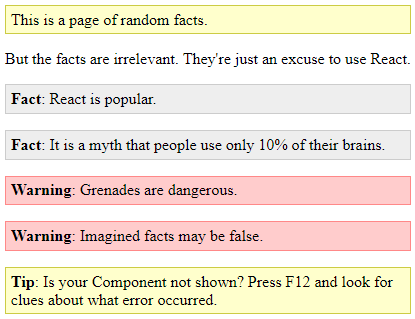
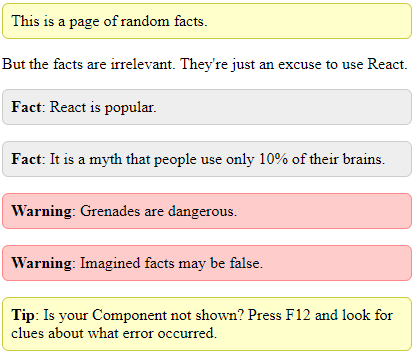
Edit tutorial

diff --git a/docs/styles.css b/docs/styles.css
@@ -78,3 +78,20 @@ header, .header {
      3px 3px 3px #000;
   /*-webkit-text-stroke: 1px black;*/
 }
+
+.note, .warning, .tip {
+    padding: 0.5em;
+    border-radius: 0.4em;
+}
+.note {
+    background-color: #ffc;
+    border: 1px solid #cc4;
+}
+.warning { 
+    background-color: #fcc;
+    border: 1px solid #f88;
+}
+.tip { 
+    background-color: #cfc;
+    border: 1px solid #6c6;
+}

diff --git a/docs/tutorial-2.md b/docs/tutorial-2.md
@@ -106,7 +106,9 @@ Alternately you can use Preact, which is [almost the same](https://preactjs.com/
 
     npm install preact
 
-**Note**: do not to install `preact` and `@types/react` in the same project, or `tsc` will go insane and give you about 150 errors (see [preact issue #639](https://github.com/developit/preact/issues/639)). If this happens, uninstall the React types with `npm uninstall @types/react @types/react-dom`
+<p class="tip">**Tip:** `npm i` is a shortcut for `npm install`.</p>
+
+<p class="note">**Note:** do not to install `preact` and `@types/react` in the same project, or `tsc` will go insane and give you about 150 errors (see [preact issue #639](https://github.com/developit/preact/issues/639)). If this happens, uninstall the React types with `npm uninstall @types/react @types/react-dom`</p>
 
 ### Step 6: Write some React code ###
 
@@ -135,7 +137,7 @@ ReactDOM.render(
 );
 ~~~
 
-**Note:** in order for the embedded JSX (HTML/XML) to work, the file extension must be `tsx`, not `ts`. If you have any trouble making your code work, try this code instead, it's the simplest possible React program:
+<p class="note">**Note:** in order for the embedded JSX (HTML/XML) to work, the file extension must be `tsx`, not `ts`. If you have any trouble making your code work, try this code instead, it's the simplest possible React program:</p>
 
 ~~~tsx
 import * as ReactDOM from 'react-dom';
@@ -157,6 +159,18 @@ Some notes about Preact:
 
 - There is a [preact-compat library](https://github.com/developit/preact-compat) which allows you to use preact with zero changes to your React code, but usage instructions exist only for users of Webpack/Browserify/Babel/Brunch.
 - There are rumors that in Preact you should write `/** @jsx h */` at the top of the file, which tells TypeScript to call `h()` instead of the default `React.createElement`. Here you **must not** do that or you'll get a error in your browser that `h` is not defined (`React.h`, however, is defined). In fact Preact defines `createElement` as an alias for `h`, and since our `import` statement assigns `'preact'` to `React`, `React.createElement` exists and works just fine.
+
+### Optional: running TypeScript scripts ###
+
+This tutorial is focused on making _web pages_ that run TypeScript code. If you would like to run a TypeScript file directly from the command prompt, the easiest way is to use `ts-node`:
+
+    npm install --global ts-node
+
+After installing `ts-node`, run `ts-node X.ts` where `X.ts` is the name of a script you want to run. On Linux systems you can put a "shebang" at the top of the script if you would like to be able to run `./X.ts` directly (without mentioning `ts-node`):
+
+    #!/usr/bin/env ts-node
+
+<p class="note">**Note:** if you don't need to run ts files from a terminal then you don't need to install `ts-node`.</p>
 
 Running your project, Approach A: The Easy Way
 ----------------------------------------------
@@ -209,6 +223,8 @@ It is challenging to set up a conventional build that does all of these things; 
 
 To learn about more features of Parcel, have a look at the [Parcel documentation](https://parceljs.org/getting_started.html). 
 
+One limitation of Parcel is that it doesn't perform type checking (your code is translated to JavaScript but type errors are not detected). For small projects, this is not a big problem because Visual Studio Code performs its own type checking. It gives you red squiggly underlines to indicate errors and all errors are listed in the "Problems" pane (press Ctrl+Shift+M to show it). But if you want, you can `npm install parcel-plugin-typescript` for [enhanced TypeScript support](https://www.npmjs.com/package/parcel-plugin-typescript#features) including type checking.
+
 Other approaches
 ----------------
 
@@ -237,24 +253,26 @@ It seems like everybody's JavaScript project uses a dozen tools plus the kitchen
 Create a text file called `tsconfig.json` (in your root folder) and put this code in it:
 
 ~~~js
-{   // TypeScript configuration file: provides options to the TypeScript 
-    // compiler (tsc) and makes VSCode recognize this folder as a TS project,
-    // enabling the VSCode build tasks "tsc: build" and "tsc: watch".
-    "compilerOptions": {
-        "target": "es5",            // Compatible with older browsers
-        "module": "umd",            // Compatible with both Node.js and browser
-        "moduleResolution": "node", // Tell tsc to look in node_modules for modules
-        "sourceMap": true,          // Creates *.js.map files
-        "jsx": "react",             // Causes inline XML (JSX code) to be expanded
-    },
-    "include": ["**/*.ts", "**/*.tsx"],
-    "exclude": ["node_modules"]
+{ // TypeScript configuration file: provides options to the TypeScript 
+  // compiler (tsc) and makes VSCode recognize this folder as a TS project,
+  // enabling the VSCode build tasks "tsc: build" and "tsc: watch".
+  "compilerOptions": {
+    "target": "es5",            // Compatible with older browsers
+    "module": "umd",            // Compatible with both Node.js and browser
+    "moduleResolution": "node", // Tell tsc to look in node_modules for modules
+    "sourceMap": true,          // Creates *.js.map files
+    "jsx": "react",             // Causes inline XML (JSX code) to be expanded
+    "strict": true,             // Strict types, eg. prohibits `var x=0; x=null`
+    "alwaysStrict": true        // Enable JavaScript's "use strict" mode
+  },
+  "include": ["**/*.ts", "**/*.tsx"],
+  "exclude": ["node_modules"]
 }
 ~~~
 
 This file marks the folder as a TypeScript project and enables build commands in VSCode with Ctrl+Shift+B (the "tsc: watch" command is useful - it will automatically recompile your code whenever you save it.) **Silly fact**: `tsc` allows comments in json files but `npm` does not. 
 
-This file is very important because if the settings aren't right, something will go wrong and mysterious errors will punch you in the face. Here is the [documentation of tsconfig.json](https://www.typescriptlang.org/docs/handbook/tsconfig-json.html), but compiler options are [documented separately](https://www.typescriptlang.org/docs/handbook/compiler-options.html).).
+This file is very important because if the settings aren't right, something may go wrong and mysterious errors may punch you in the face. Here is the [documentation of tsconfig.json](https://www.typescriptlang.org/docs/handbook/tsconfig-json.html), but compiler options are [documented separately](https://www.typescriptlang.org/docs/handbook/compiler-options.html).).
 
 ### Step B2: Add a build script ###
 
@@ -273,7 +291,7 @@ The `build` script simply runs `tsc` which compiles your code according to the o
 1. If you installed TypeScript with `--save-dev` but not `--global`, you can't run `tsc` directly from the command line because it's not in the PATH.
 2. There's a good chance your build process will become more complicated later. By creating a build script you can easily add other commands to the build process later.
 
-**Note:** `npm` runs the `prestart` script automatically whenever someone runs the `start` script, so you *could* add this additional an additional script:
+<p class="note">**Note:** `npm` runs the `prestart` script automatically whenever someone runs the `start` script, so you *could* add this additional an additional script:</p>
 
       "prestart": "npm run build",
 
@@ -435,7 +453,7 @@ At this point you should be able to build your code (`npm run build`), start you
 
 Remember, you can recompile your code automatically in VS Code: press Ctrl+Shift+B and choose "tsc: watch".
 
-**Note**: It's important to load `app.js` at the end of the `body`, or React will say `Error: Target container is not a DOM element` because `app.js` would be calling `document.getElementById('app')` before the app element exists.
+<p class="note">**Note**: It's important to load `app.js` at the end of the `body`, or React will say `Error: Target container is not a DOM element` because `app.js` would be calling `document.getElementById('app')` before the app element exists.</p>
 
 At this point it's worth noting that this code is a little hacky. Especially this part:
 

diff --git a/docs/tutorial-5.md b/docs/tutorial-5.md
@@ -157,9 +157,10 @@ We'll need some CSS to style it, so we'll use an `app.css` file with this style 
 
 ~~~css
 .fact, .warning, .tip {
-    padding: 0.3em;
+    padding: 0.4em;
+    border-radius: 0.3em;
 }
-.fact { 
+.fact {
     background-color: #eee;
     border: 1px solid #ccc;
 }
@@ -564,7 +565,8 @@ class TimeSelector extends React.Component<{},{time?:Date}> {
   state = {time: undefined as (Date|undefined)};
   render() {
     let time = this.state.time;
-    return (<span>
+    return (
+      <span>
         <input type="text" list="times" style={ {width:75} }
                onChange={ e => this.setState({time: parseTime(e.target.value)}) }value={(time ? timeToStringUTC(time, false) : "")}/>
         <datalist id="times">
@@ -598,7 +600,7 @@ class TimeSelector extends React.Component<{},{time?:Date}> {
 }
 ~~~
 
-**Note**: There are two time fields, so the `datalist` will be duplicated in the DOM, but it still works. Also, we must set the initial `state` (or it will be `null` and cause a runtime error), but in doing so we need to set the `time` variable with a type annotation, `undefined as (Date|undefined)`, otherwise TypeScript will mistakenly believe that `time` has type `undefined` instead of `Date|undefined`. Interestingly this problem does not occur if you set `this.state` in the constructor (i.e. if your component has a constructor you can simply write `this.state = {}` inside it; in that case, `state` is inherited from `React.Component` with the correct type.)
+<p class="note">**Note**: There are two time fields, so the `datalist` will be duplicated in the DOM, but it still works. Also, we must set the initial `state` (or it will be `null` and cause a runtime error), but in doing so we need to set the `time` variable with a type annotation, `undefined as (Date|undefined)`, otherwise TypeScript will mistakenly believe that `time` has type `undefined` instead of `Date|undefined`. Interestingly this problem does not occur if you set `this.state` in the constructor (i.e. if your component has a constructor you can simply write `this.state = {}` inside it; in that case, `state` is inherited from `React.Component` with the correct type.)</p>
 
 **Sadly this code malfunctions**: it will not allow you to type a time such as `9:15` because the first character `9` is immediately interpreted (as `9:00 am`) which causes `render()` to be called again, so the text box is updated which screws up user input.
 
@@ -625,7 +627,8 @@ class TimeSelector extends React.Component<{},{time?:Date,timeInput?:string}> {
     else if (this.state.time !== undefined)
         timeString = timeToStringUTC(this.state.time, false);
 
-    return (<span>
+    return (
+      <span>
         <input type="text" list="times" style={ {width:75} }
                value={timeString}
                onBlur={ e => this.setState({timeInput: undefined, 
@@ -639,7 +642,7 @@ class TimeSelector extends React.Component<{},{time?:Date,timeInput?:string}> {
 }
 ~~~
 
-Just 8 additional lines of code... no biggie, right?
+Just 8 additional lines of code... no biggie, right? If you ask me, one of the main purposes of a UI library (or any library) is to make your code simple, but I guess React's designers have different ideas.
 
 Here is another component for the rest of the interface (note: the state management is incomplete here):
 
@@ -653,7 +656,7 @@ interface CalendarEntry {
   alarmMinutes: number;
 }
 
-class EditCalendarEntry extends React.Component<{}, CalendarEntry> {
+class CalendarEntryEditor extends React.Component<{}, CalendarEntry> {
   state = {
     eventName: 'Daily run',
     allDay: false, 
@@ -696,16 +699,21 @@ class EditCalendarEntry extends React.Component<{}, CalendarEntry> {
   }
 }
 
-ReactDOM.render(<EditCalendarEntry/>, document.getElementById("app"));
+ReactDOM.render(<CalendarEntryEditor/>, document.getElementById("app"));
 ~~~
 
-As you can see, the time range controls appear only if the `allDay` flag is not set, and editing the `alarmMinutes` box will caused the `alarmOn` checkbox to be checked. However, editing `durationMinutes` does not affect the end time or vice versa, because there is no mechanism in place to communicate between `TimeSelector` and `EditCalendarEntry`. So, how should we set up this communication?
+As you can see, the time range controls appear only if the `allDay` flag is not set, and editing the `alarmMinutes` box will caused the `alarmOn` checkbox to be checked. However, editing `durationMinutes` does not affect the end time or vice versa, because there is no mechanism in place to communicate between `TimeSelector` and `CalendarEntryEditor`. So, how should we set up this communication?
 
 The classic way to do this is to "push" the state out of the child component to the parent, using two props: one to pass state from parent to child, and one to receive new state from the child. So `state.time` becomes `props.time` in order to receive a time from the parent, and `props.onTimeChange` is added in order to send a new time to the parent. Here's the new code:
 
 ~~~tsx
-class TimeSelector extends React.Component<
-      {time?:Date, onTimeChange:(time?:Date)=>void}, {timeInput?:string}>
+interface TimeSelectorProps {
+  time?: Date;
+  onTimeChange: (time?:Date) => void;
+}
+
+class TimeSelector extends React.Component<TimeSelectorProps, 
+                                           {timeInput?:string}>
 {
   state = { timeInput: undefined as (string|undefined) };
   render() {
@@ -715,7 +723,8 @@ class TimeSelector extends React.Component<
     else if (this.props.time !== undefined)
         timeString = timeToStringUTC(this.props.time, false);
 
-    return (<span>
+    return (
+      <span>
         <input type="text" list="times" style={ {width:75} }
                value={timeString}
                onChange={ e => this.setState({timeInput: e.target.value}) }
@@ -739,7 +748,7 @@ interface CalendarEntry {
   alarmMinutes: number;
 }
 
-class EditCalendarEntry extends React.Component<{}, CalendarEntry> {
+class CalendarEntryEditor extends React.Component<{}, CalendarEntry> {
   state = {
     eventName: 'Daily run',
     allDay: false, 
@@ -811,10 +820,21 @@ function diffMinutes(high: Date, low: Date) {
   return (high.valueOf() - low.valueOf()) / 60000;
 }
 
-ReactDOM.render(<EditCalendarEntry/>, document.getElementById("app"));
+ReactDOM.render(<CalendarEntryEditor/>, document.getElementById("app"));
 ~~~
 
 Now that the `TimeSelector` talks to its parent, the start time, end time and number-of-minutes synchronize with each other automatically. Hooray!
+
+But imagine, now, that this `CalendarEntryEditor` is embedded within a larger Calendar application. In that case, the editor will need to share the current `CalendarEntry` with an outer `CalendarApp` component that can save the `CalendarEntry` within the calendar and switch to a different `CalendarEntry` as the user clicks different parts of the calendar.
+
+Once again, the `state` needs to become part of `props`, something like this:
+
+~~~tsx
+interface CalendarEntryEditorProps {
+  entry: CalendarEntry;
+  onEntryChange: (entry: CalendarEntry) => void;
+}
+~~~
 
 That's all for now
 ------------------

diff --git a/docs/tutorial-3.md b/docs/tutorial-3.md
@@ -5,20 +5,20 @@ This is a summary of the four ways you can set up your TypeScript project; see [
 
 ### One-time installations ###
 
-1. [Install Node.js](https://nodejs.org/en/download/)
-2. [Install Visual Studio Code](https://code.visualstudio.com/download)
-3. (Optional) In a terminal: `npm --global typescript`
-4. (For The Easy Way) In a terminal: `npm install --global parcel-bundler`
-5. (For The Webpack Way) In a terminal: `npm install --global webpack`
-5. (For The Gulp Way) In a terminal: `npm install --global gulp`
+(1) [Install Node.js](https://nodejs.org/en/download/)
+(2) [Install Visual Studio Code](https://code.visualstudio.com/download)
+(3) (Optional) In a terminal: `npm --global typescript`
+(4a) (For The Easy Way) In a terminal: `npm install --global parcel-bundler`
+(4b) (For The Webpack Way) In a terminal: `npm install --global webpack`
+(4c) (For The Gulp Way) In a terminal: `npm install --global gulp`
 
 ### How to start a new project ###
 
-1. Create a folder for your project
-2. In a terminal: `npm init`
-3. (If TypeScript is not yet installed) In a terminal: `npm install --save-dev typescript`
-4. Decide where to store your source code (e.g. In the project root folder? in an `app` subfolder? Or perhaps in a `src` subfolder? It's up to you, but these instructions assume you will use the `app` folder.)
-5. Create a tsx file and write some code in it (if you are not using JSX/React/Preact, make a ts file instead). Here is a simple React example:
+(1) Create a folder for your project
+(2) In a terminal: `npm init`
+(3) (If TypeScript is not yet installed) In a terminal: `npm install --save-dev typescript`
+(4) Decide where to store your source code (e.g. In the project root folder? in an `app` subfolder? Or perhaps in a `src` subfolder? It's up to you, but these instructions assume you will use the `app` folder.)
+(5) Create a tsx file and write some code in it (if you are not using JSX/React/Preact, make a ts file instead). Here is a simple React example:
 
 ~~~tsx
 import * as React from 'react';
@@ -67,7 +67,7 @@ ReactDOM.render(
 
 ### Approaches B and C ###
 
-1. Create a text file called `tsconfig.json` with this code in it:
+(1) Create a text file called `tsconfig.json` with this code in it:
 
 ~~~js
 {   // TypeScript configuration file: provides options to the TypeScript 
@@ -84,7 +84,7 @@ ReactDOM.render(
 }
 ~~~
 
-2. Create a `server.js` file to serve files to your web browser. You could use the file server code from step B3 in [Part 2](tutorial-2.md), but if you install [Express](https://expressjs.com/) with `npm install express` then you can use short and simple server code, like this:
+(2) Create a `server.js` file to serve files to your web browser. You could use the file server code from step B3 in [Part 2](tutorial-2.md), but if you install [Express](https://expressjs.com/) with `npm install express` then you can use short and simple server code, like this:
 
 ~~~js
 const express = require('express');
@@ -97,7 +97,7 @@ app.listen(1234, () => console.log('Express server running at http://127.0.0.1:1
 
 ### Approach B, additional steps ###
 
-3. Add `"build"` and `"start"` scripts to `package.json`:
+(3) Add `"build"` and `"start"` scripts to `package.json`:
 
 ~~~json
   "scripts": {
@@ -107,7 +107,7 @@ app.listen(1234, () => console.log('Express server running at http://127.0.0.1:1
   },
 ~~~
 
-4. Create an `index.html` file in your app folder:
+(4) Create an `index.html` file in your app folder:
 
 ~~~html
 <!DOCTYPE html>
@@ -133,15 +133,15 @@ app.listen(1234, () => console.log('Express server running at http://127.0.0.1:1
 </html>
 ~~~
 
-5. In a terminal: `npm run build`
-6. In a terminal: `npm start`
-7. Visit http://127.0.0.1:1234 in a browser if the last two steps worked.
-8. To recompile your code automatically in VS Code: press Ctrl+Shift+B and choose "tsc: watch"
+(5) In a terminal: `npm run build`
+(6) In a terminal: `npm start`
+(7) Visit http://127.0.0.1:1234 in a browser if the last two steps worked.
+(8) To recompile your code automatically in VS Code: press Ctrl+Shift+B and choose "tsc: watch"
 
 ### Approach C, additional steps ###
 
-3. In a terminal: `npm install awesome-typescript-loader --save-dev`
-4. Add `"build"` and `"start"` scripts to `package.json`:
+(3) In a terminal: `npm install awesome-typescript-loader --save-dev`
+(4) Add `"build"` and `"start"` scripts to `package.json`:
 
 ~~~json
   "scripts": {
@@ -153,8 +153,8 @@ app.listen(1234, () => console.log('Express server running at http://127.0.0.1:1
   },
 ~~~
 
-5. (Optional): use `webpack.config.js` file instead (see [Part 2](tutorial-2.md) step C7)
-6. Create `index.html` file:
+(5) (Optional): use `webpack.config.js` file instead (see [Part 2](tutorial-2.md) step C7)
+(6) Create `index.html` file:
 
 ~~~html
 <!DOCTYPE html>
@@ -171,9 +171,15 @@ app.listen(1234, () => console.log('Express server running at http://127.0.0.1:1
 </html>
 ~~~
 
-7. In a terminal: `npm run watch`
-8. In a second terminal: `npm start`
-9. Visit http://127.0.0.1:1234 in a browser if the last two steps worked.
+(7) In a terminal: `npm run watch`
+(8) In a second terminal: `npm start`
+(9) Visit http://127.0.0.1:1234 in a browser if the last two steps worked.
+
+To run TypeScript scripts directly from the command prompt
+-----------------------------------------------------------
+
+(1). In a terminal: `npm install --global ts-node`
+(2). In a terminal: `ts-node script.ts` (where _script.ts_ is a script's name).
 
 Optional: Separating the js files from the ts files, in Approach B
 ------------------------------------------------------------------

diff --git a/docs/tutorial-4.md b/docs/tutorial-4.md
@@ -279,6 +279,10 @@ Technically we can set `zed` to `null` and `undefined` but luckily with `"strict
 
 Confused? Well, never mind, hopefully you'll get it later. Honestly, it doesn't matter right now.
 
+Here's another puzzle for you: what's the difference between the types `number[]` and `[number]`? The first is an array of numbers; the second is an array that contains only one element, which is a number. 
+
+Similarly `[string,number]` denotes an array of length 2 with the first element being a string and the second being a number. In addition, the array has a property `length: 2`, i.e. its _type_ is `2`, not just `number`. These fixed-length arrays are called tuple types. To learn about more interesting features of TypeScript's type system, see [Advanced Types](https://www.typescriptlang.org/docs/handbook/advanced-types.html).
+
 JSX
 ---
 
